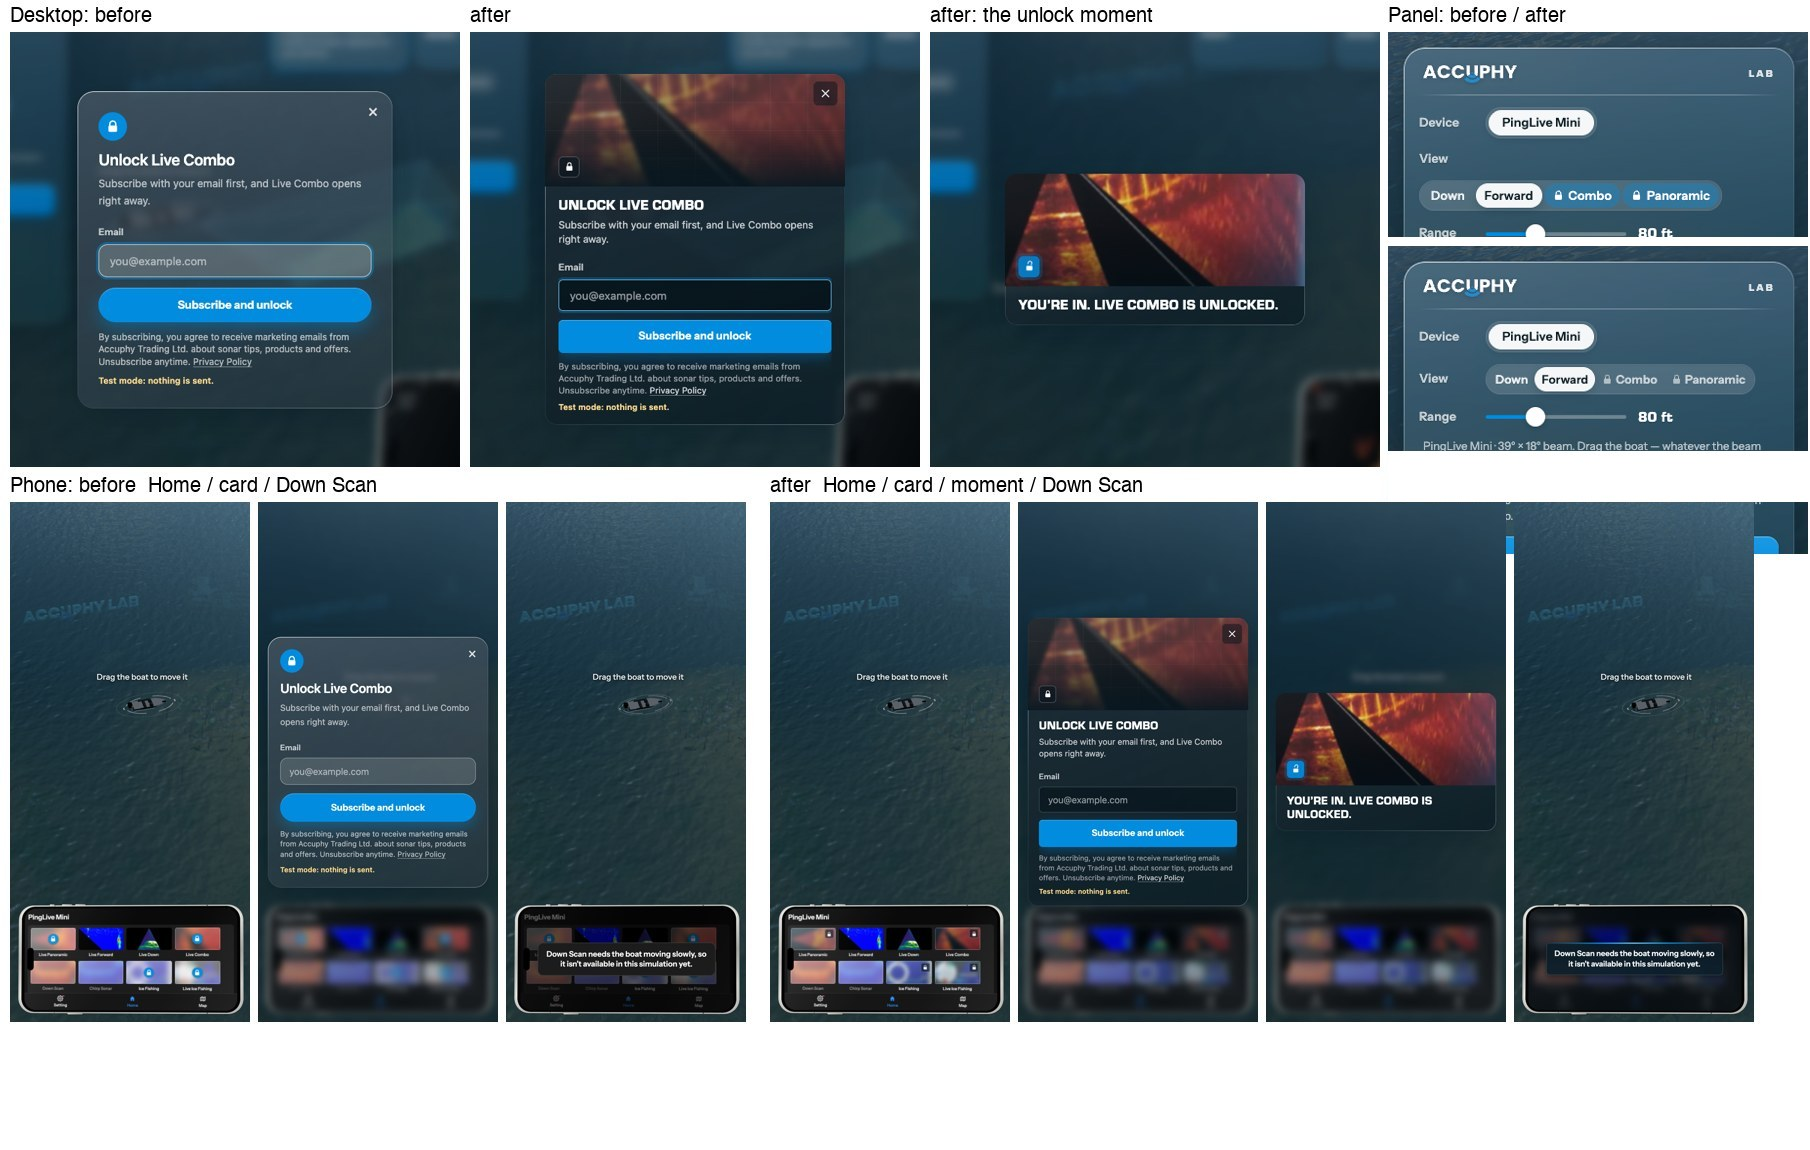
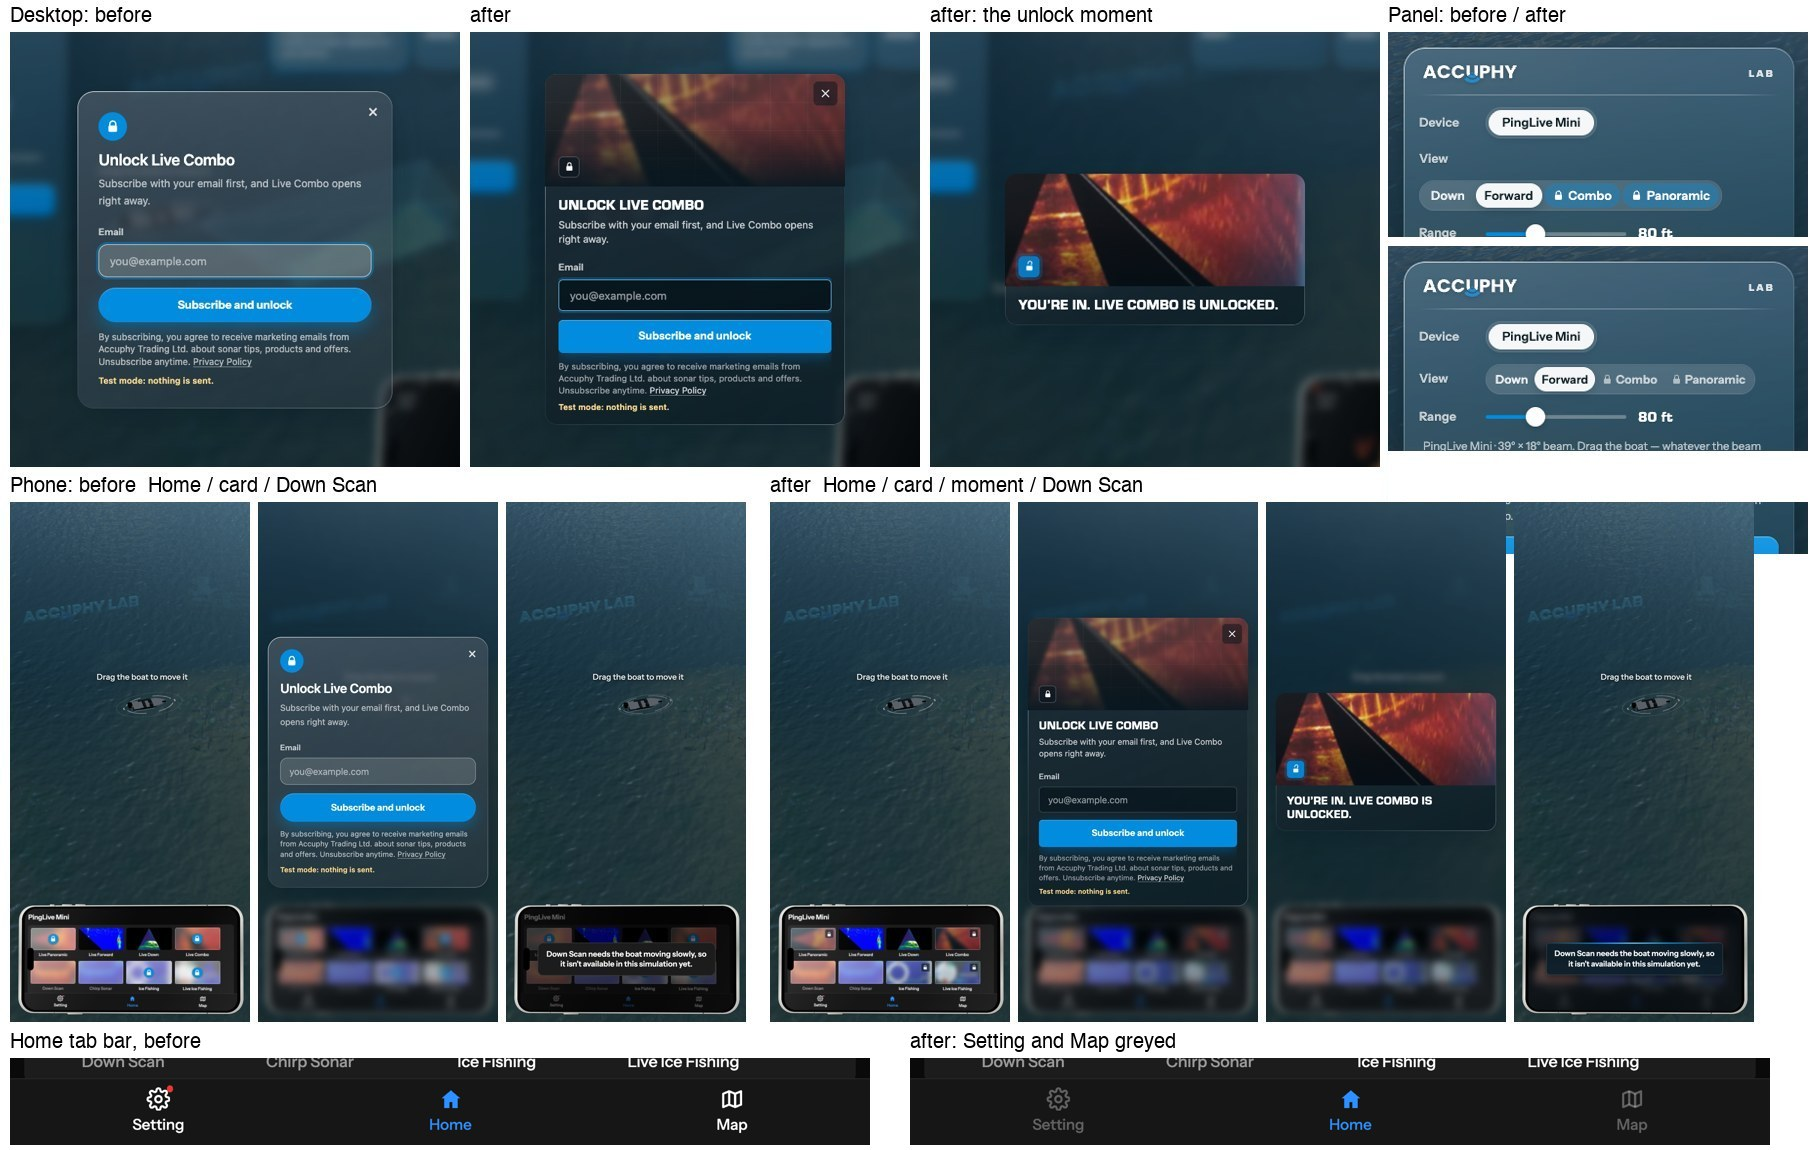
Home tab bar: Setting and Map greyed, red dot removed (#191, Jason)

Changed region(s): [[0.0, 0.8826, 0.9901, 1.0]]

diff --git a/src/experiments/2026-09-23-sonar-lake-3d/home/AppHome.jsx b/src/experiments/2026-09-23-sonar-lake-3d/home/AppHome.jsx
@@ -44,12 +44,13 @@ const SECTIONS = {
 }
 
 const BLUE = '#2f8fff'
+const OFF = 'rgba(255,255,255,0.32)' // Setting and Map: greyed, nothing happens on a tap (Jason 2026-10-30: "map不用打开吧 setting那就灰掉")
 export const VIEW_IMG = { combo: plmCombo, panoramic: plmPanoramic, ice: plmIceFishing, liveice: plmLiveIce } // the subscribe card's picture of what it opens (#191)
 export const isLocked = (d, m) => m === 'combo' || m === 'ice' || (d === 'PLM' && m === 'panoramic') // the views behind the subscribe card (#191)
 const unlockLabel = (view) => t('unlock_locked', { view })
 const movingText = (view) => t('na_moving', { view })
 function Icon({ name, active }) {
-  const c = active ? BLUE : '#fff'
+  const c = active ? BLUE : OFF
   const s = { width: '6cqh', height: '6cqh', display: 'block', margin: '0 auto 0.8cqh' }
   if (name === 'gear') return <svg viewBox="0 0 24 24" style={s} fill="none" stroke={c} strokeWidth="2.2" strokeLinejoin="round"><circle cx="12" cy="12" r="3.2" /><path d="M19.4 15a1.7 1.7 0 0 0 .3 1.8l.1.1a2 2 0 1 1-2.8 2.8l-.1-.1a1.7 1.7 0 0 0-1.8-.3 1.7 1.7 0 0 0-1 1.5V21a2 2 0 1 1-4 0v-.1a1.7 1.7 0 0 0-1.1-1.5 1.7 1.7 0 0 0-1.8.3l-.1.1a2 2 0 1 1-2.8-2.8l.1-.1a1.7 1.7 0 0 0 .3-1.8 1.7 1.7 0 0 0-1.5-1H3a2 2 0 1 1 0-4h.1a1.7 1.7 0 0 0 1.5-1.1 1.7 1.7 0 0 0-.3-1.8l-.1-.1a2 2 0 1 1 2.8-2.8l.1.1a1.7 1.7 0 0 0 1.8.3H9a1.7 1.7 0 0 0 1-1.5V3a2 2 0 1 1 4 0v.1a1.7 1.7 0 0 0 1 1.5 1.7 1.7 0 0 0 1.8-.3l.1-.1a2 2 0 1 1 2.8 2.8l-.1.1a1.7 1.7 0 0 0-.3 1.8V9a1.7 1.7 0 0 0 1.5 1H21a2 2 0 1 1 0 4h-.1a1.7 1.7 0 0 0-1.5 1z" /></svg>
   if (name === 'home') return <svg viewBox="0 0 24 24" style={s} fill={c}><path d="M12 3 2.5 11.2h2.7V21h5.3v-6h3v6h5.3v-9.8h2.7z" /></svg>
@@ -57,9 +58,8 @@ function Icon({ name, active }) {
 }
 function Tab({ label, icon, active }) {
   return (
-    <div style={{ textAlign: 'center', fontSize: '3.8cqh', fontWeight: 500, color: active ? BLUE : '#fff', position: 'relative' }}>
+    <div style={{ textAlign: 'center', fontSize: '3.8cqh', fontWeight: 500, color: active ? BLUE : OFF, position: 'relative' }}>
       <Icon name={icon} active={active} />
-      {icon === 'gear' && <span style={{ position: 'absolute', top: '-0.4cqh', left: 'calc(50% + 2.2cqh)', width: '1.6cqh', height: '1.6cqh', borderRadius: '50%', background: '#e53935' }} />}
       {label}
     </div>
   )

diff --git a/docs/decisions.md b/docs/decisions.md
@@ -3392,6 +3392,7 @@ Numbered log. Newest at the bottom.
        line. Sideways phones: picture left, form right, so the card fits. `prefers-reduced-motion`: no sweep, no transitions (MotionConfig + CSS). Mini's four pills: tighter, so "View" stays on their row.
        - **Fonts kept as they are, not as the brand file says:** the Lab's own Eurostile Heavy woff2 and Instrument Sans, because the Adobe kit needs the Lab's domain added and Inter would add a font
          for one card. Moving the whole Lab to the kit and Inter stays open (the old .otf's web licence is unverified). Downloads: page +~4 KB, gzip ~660 KB; the thumbnail loads only when the card opens.
+       - **Home tab bar (Jason 2026-10-30: "map不用打开吧 setting那就灰掉"):** Setting and Map greyed, the red dot gone, a tap does nothing; Home stays blue. Checked on a phone upright and sideways.
        - Sheet `docs/2026-10-30-unlock-design.jpg`, before and after, desktop and phone.
      - **Checked** on built pages in Chromium behind a stand-in store page, 0 failures of 144, 0 console errors: ice tiles in both directions at market=us (card, line, /ice/ with
        params, ice page knows, Combo opens there, back, direct when subscribed), a second device with fresh storage (locked again, same email opens); desktop 1280×800 for us, ca,
